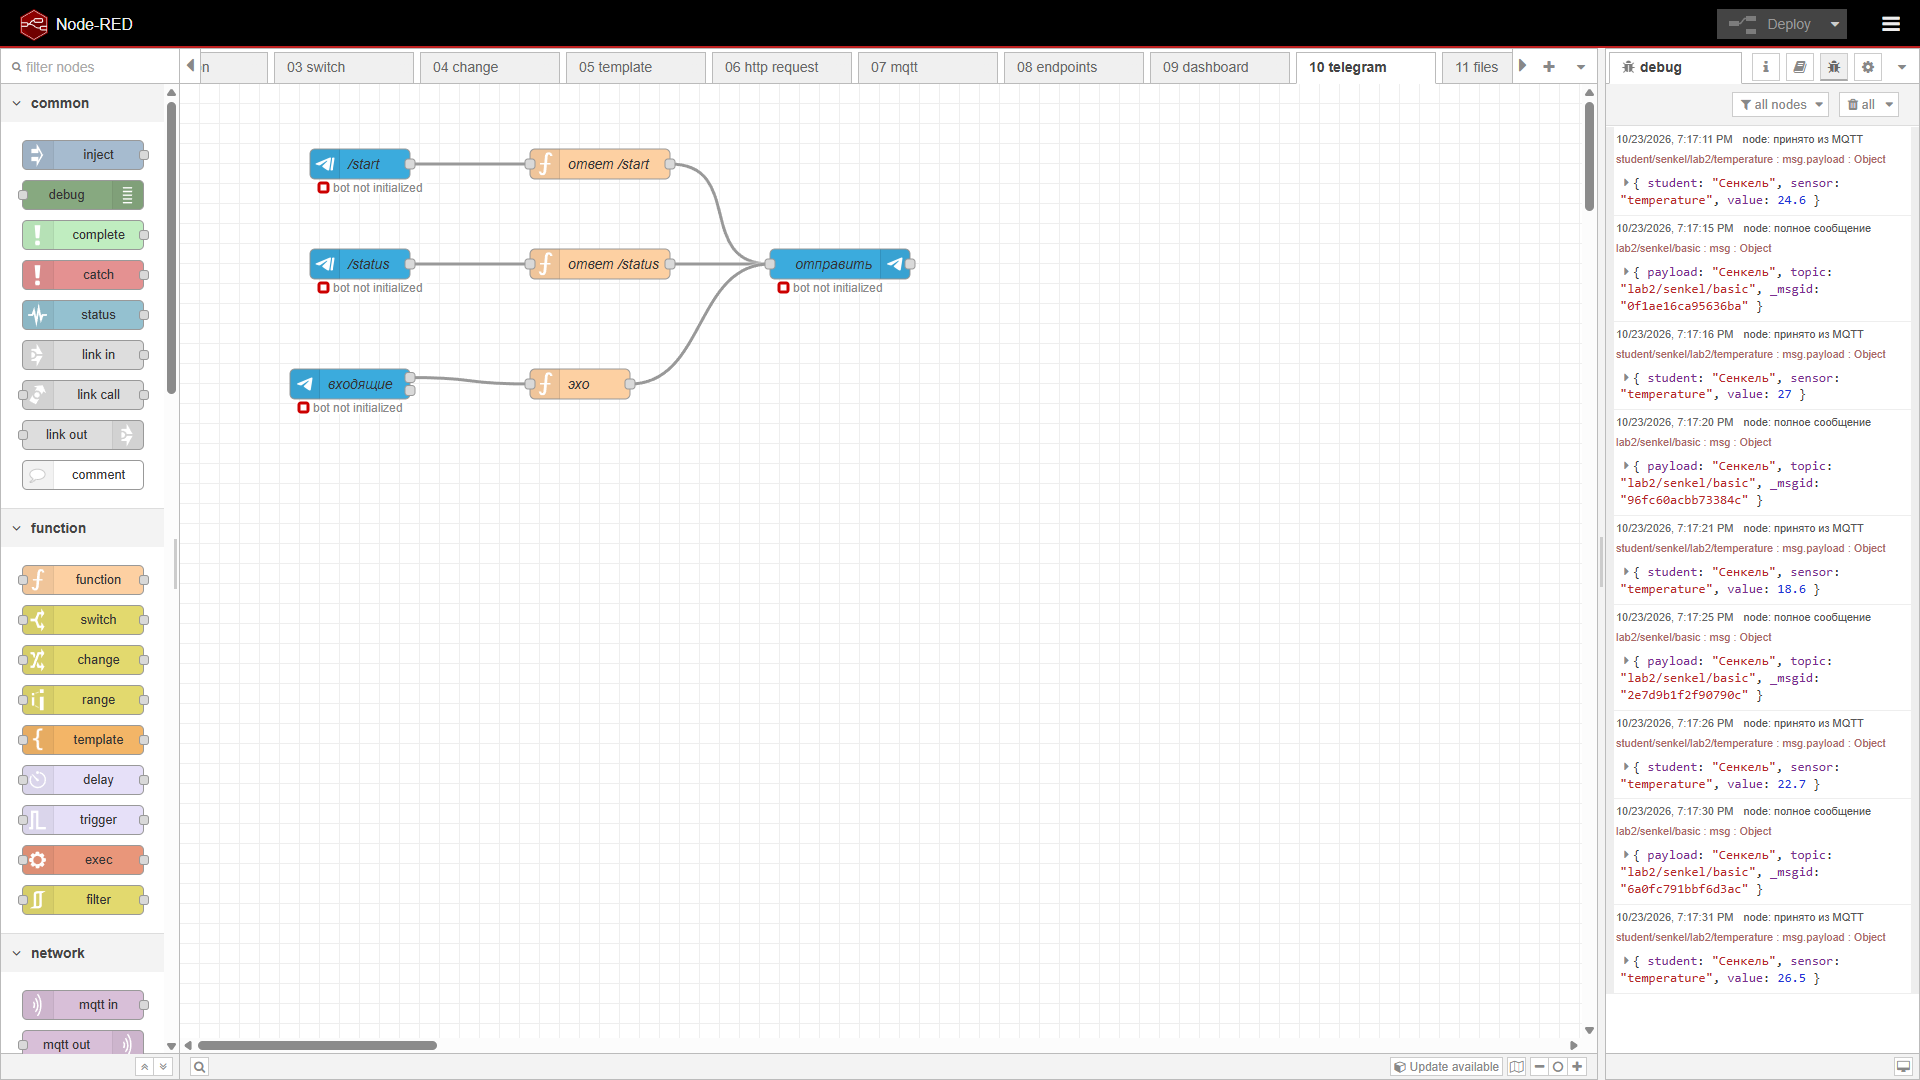
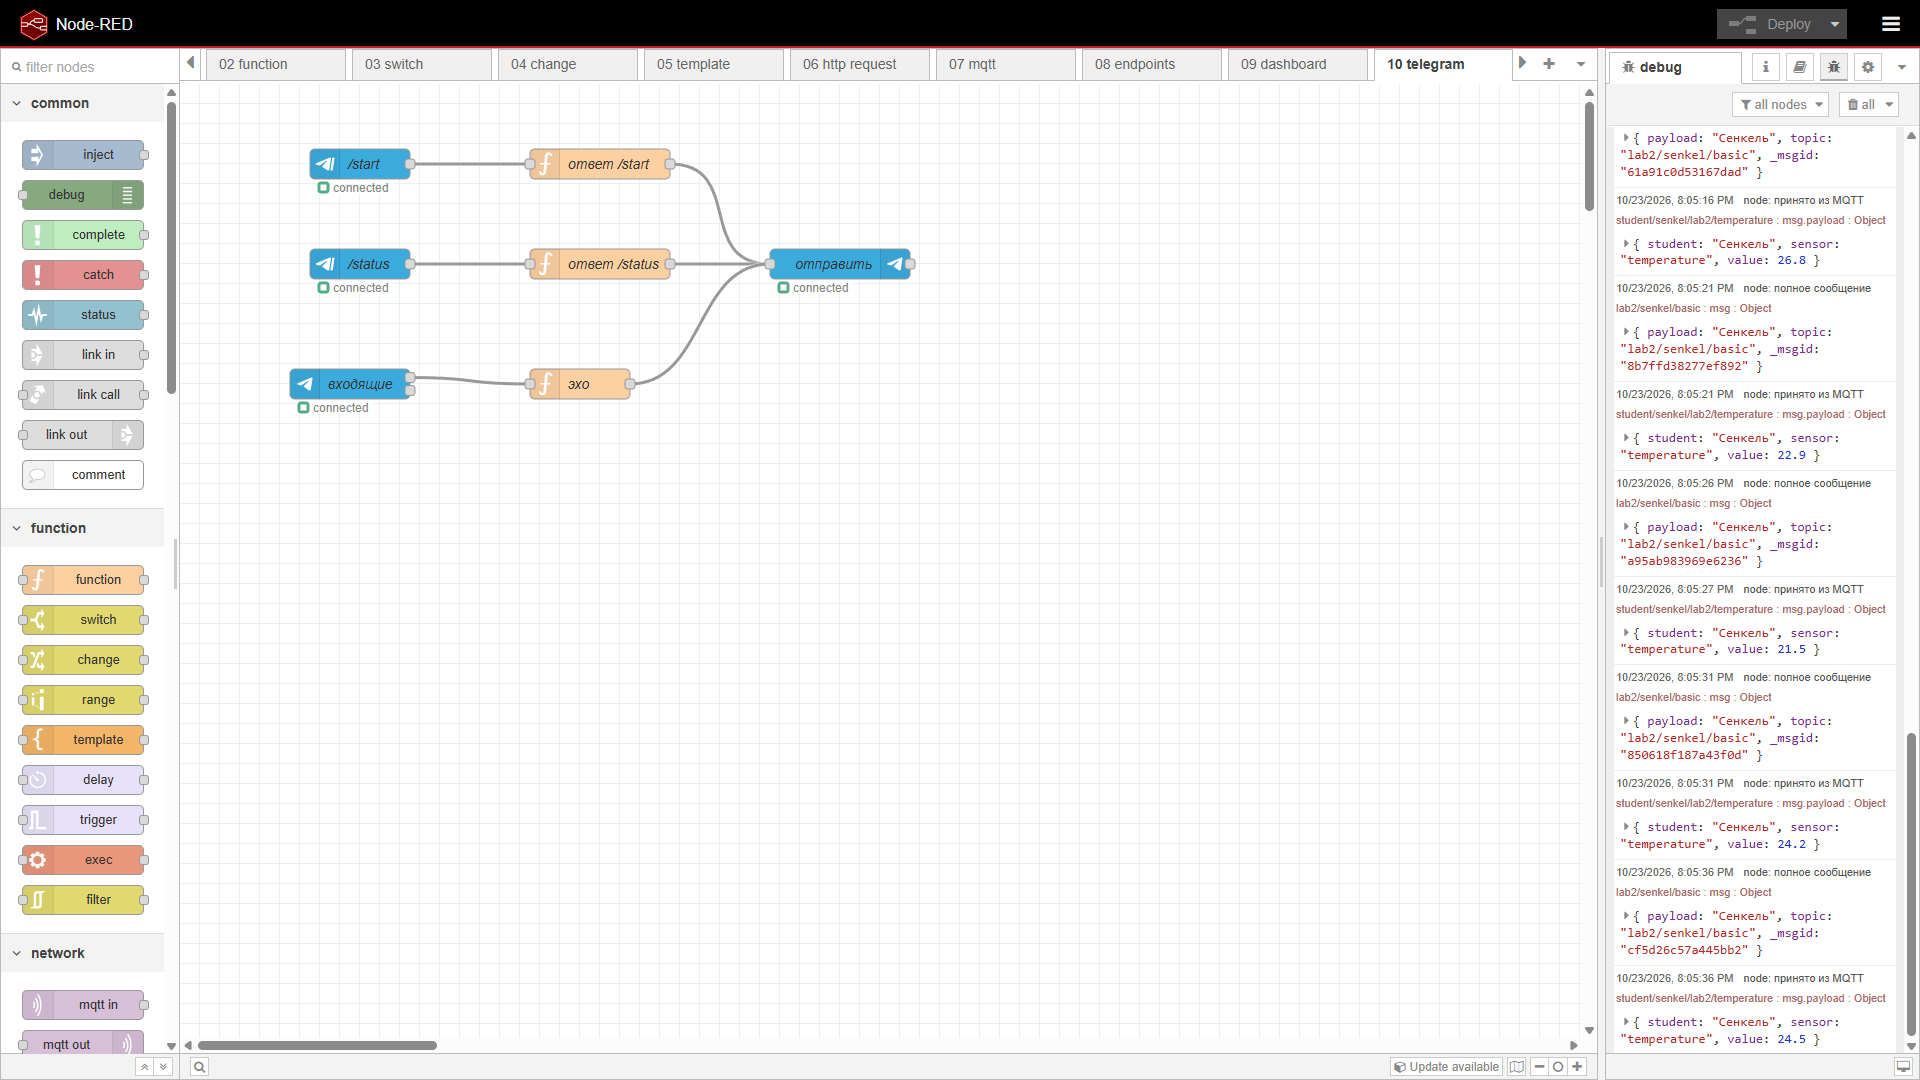
Show the connected Telegram bot in the lab 2 report.
npm start uses the system certificate store so Node-RED can reach Telegram.

diff --git a/lab2/docs/report.md b/lab2/docs/report.md
@@ -6,7 +6,7 @@
 
 Docker на компьютере не установлен, поэтому Node-RED поставлен через npm в папке `lab2`. Это ачивка 8: локальный запуск без контейнера.
 
-- Запуск: `npm install`, затем `npm start` (`node-red --userDir ./nodered-data`).
+- Запуск: `npm install`, затем `npm start`. Скрипт поднимает Node-RED с системным хранилищем сертификатов, иначе запросы к Telegram не проходят.
 - Каталог данных: `lab2/nodered-data`. Он в `.gitignore`, потому что там лежат установленные пакеты и `flows_cred.json` с токеном бота.
 - Редактор: http://localhost:1880 , панель: http://localhost:1880/ui .
 - **Node.js:** v22.20.0
@@ -33,7 +33,7 @@ Docker на компьютере не установлен, поэтому Node-
    - Свои GET: `/api/text`, `/api/info`, `/api/items/:id` с query `status`. Коды 200, 400 и 404. Описание — в [api.md](api.md).
 3. **Интерфейс и бот**
    - Dashboard: вкладка «Сенкель Lab2», группа «Датчик Сенкель», gauge и chart. Inject раз в 2 секунды имитирует температуру.
-   - Бот `tvl_lab2_senkel_bot`: `/start`, `/status` и эхо обычного текста. Токен из BotFather вводится в config-ноде и в репозиторий не кладётся. Пока токен не вставлен, ноды пишут `bot not initialized`.
+   - Бот `tvl_lab2_senkel_bot`: `/start`, `/status` и эхо обычного текста с префиксом «Сенкель: ». Токен из BotFather лежит в config-ноде и в репозиторий не кладётся. На нодах статус `connected`.
 4. **Файл и контекст**
    - Запись и чтение `lab2/files/senkel-lab2.txt`. Строка дописывается, файл остаётся после перезапуска Node-RED.
    - Flow context: счётчик `senkelCounter` увеличивается отдельным inject и читается другим. Значение живёт между сообщениями.
@@ -75,7 +75,8 @@ Docker на компьютере не установлен, поэтому Node-
 | 2.8 GET /api/items/1 | ![08-3](../screenshots/08-endpoints_3.png) |
 | 2.8 Ошибка 400 / 404 | ![08-4](../screenshots/08-endpoints_4.png) |
 | 2.9 Dashboard | ![09](../screenshots/09-dashboard.png) |
-| 2.10 Telegram | ![10](../screenshots/10-telegram.png) |
+| 2.10 Telegram, поток | ![10](../screenshots/10-telegram.png) |
+| 2.10 Telegram, чат | ![10-чат](../screenshots/10-telegram-chat.png) |
 | 2.11 Файл | ![11](../screenshots/11-files.png) |
 | 2.12 Flow context | ![12](../screenshots/12-context.png) |
 
